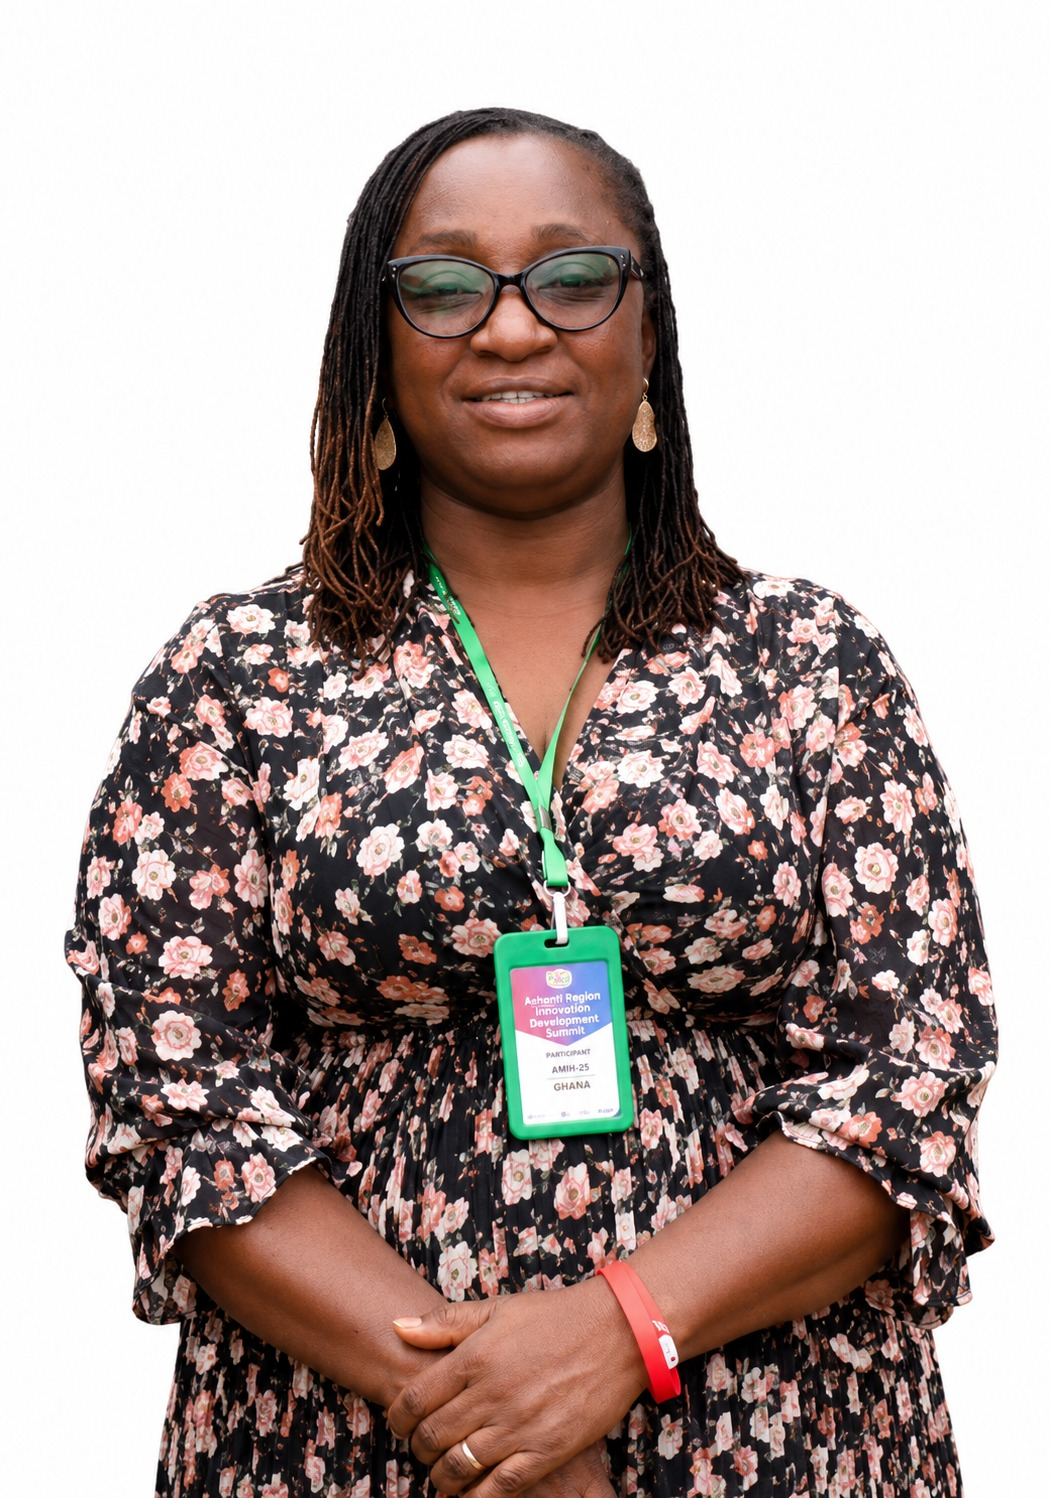
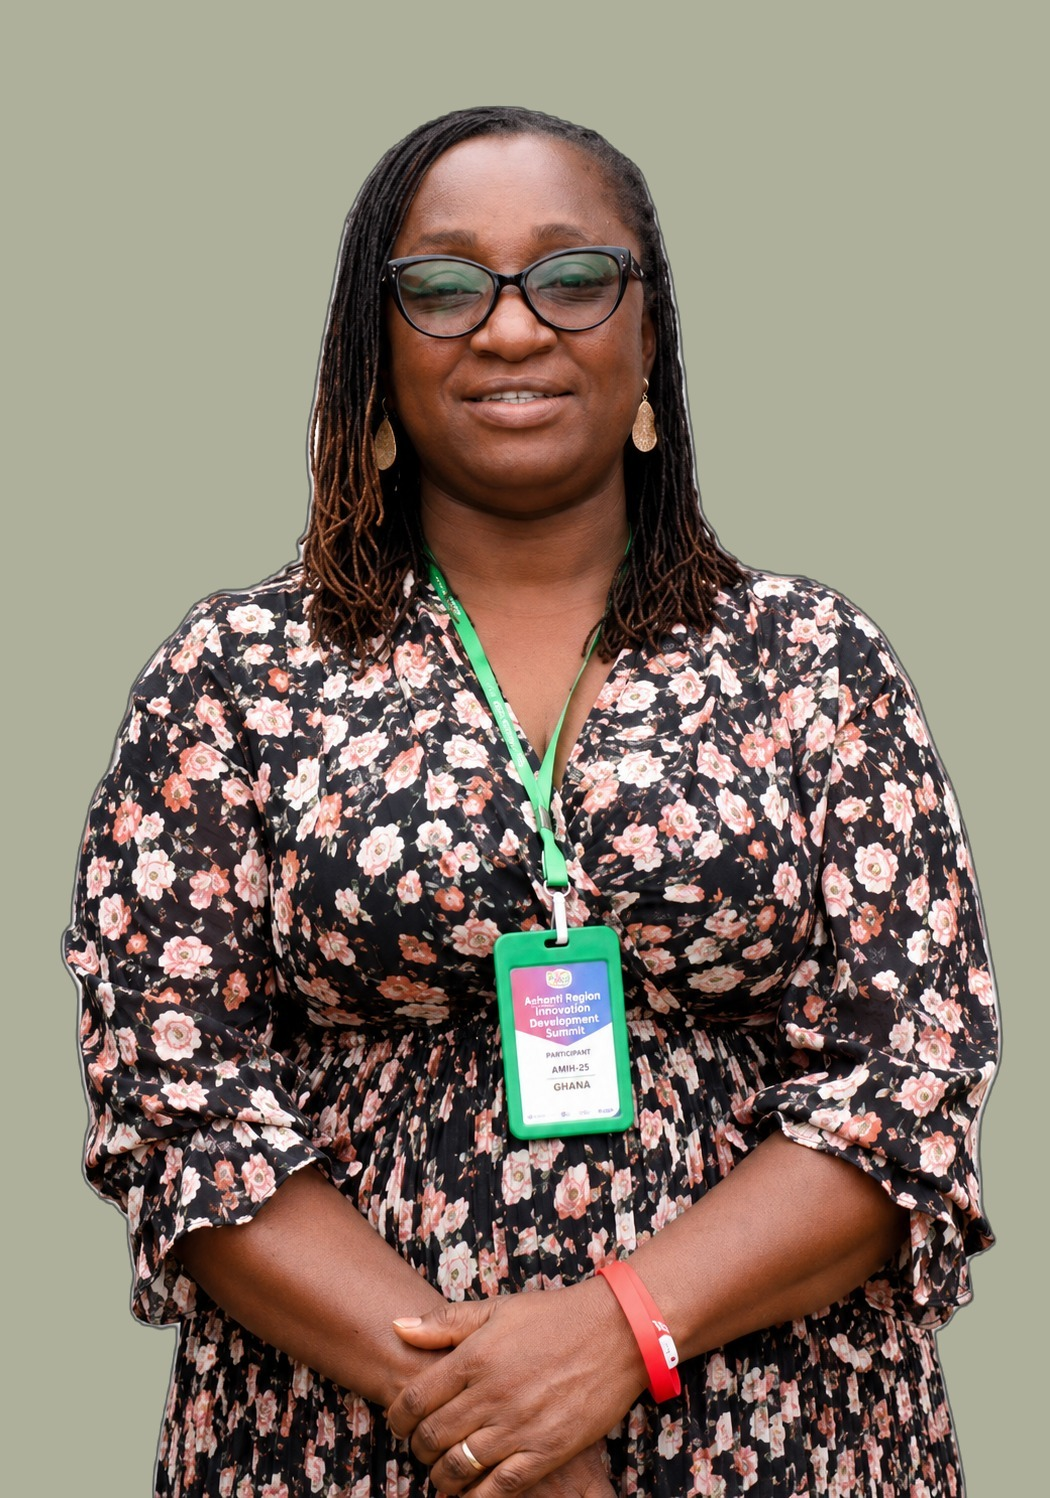
Apply sage-green screenshot color as advisor photo backgrounds.

diff --git a/index.html b/index.html
@@ -291,13 +291,13 @@
       <p class="team-label" id="advisors">Advisors</p>
       <div class="advisor-grid">
         <article class="advisor-card advisor-card--filled">
-          <img class="person-photo" src="assets/advisor-fordjour.jpg?v=4" alt="Prof. Dr. Samuel Nana Fordjour" width="1030" height="1526" loading="lazy" decoding="async">
+          <img class="person-photo" src="assets/advisor-fordjour.jpg?v=5" alt="Prof. Dr. Samuel Nana Fordjour" width="1030" height="1526" loading="lazy" decoding="async">
           <h3>Prof. Dr. Samuel Nana Fordjour,</h3>
           <p class="advisor-creds">MBCHB, MPH, PhD</p>
           <p class="person-meta">CEO, TRINITY HEALTHCARE, Kumasi</p>
         </article>
         <article class="advisor-card advisor-card--filled">
-          <img class="person-photo" src="assets/advisor-anane.jpg?v=9" alt="Dr. Agnes Achiamaa Anane" width="1050" height="1498" loading="lazy" decoding="async">
+          <img class="person-photo" src="assets/advisor-anane.jpg?v=10" alt="Dr. Agnes Achiamaa Anane" width="1050" height="1498" loading="lazy" decoding="async">
           <h3>Dr. Agnes Achiamaa Anane,</h3>
           <p class="advisor-creds">MBCHB, MWACP, MGCP, MBA, MPH</p>
           <p class="person-meta">Deputy Director, Clinical Care, Ghana Health Service</p>
